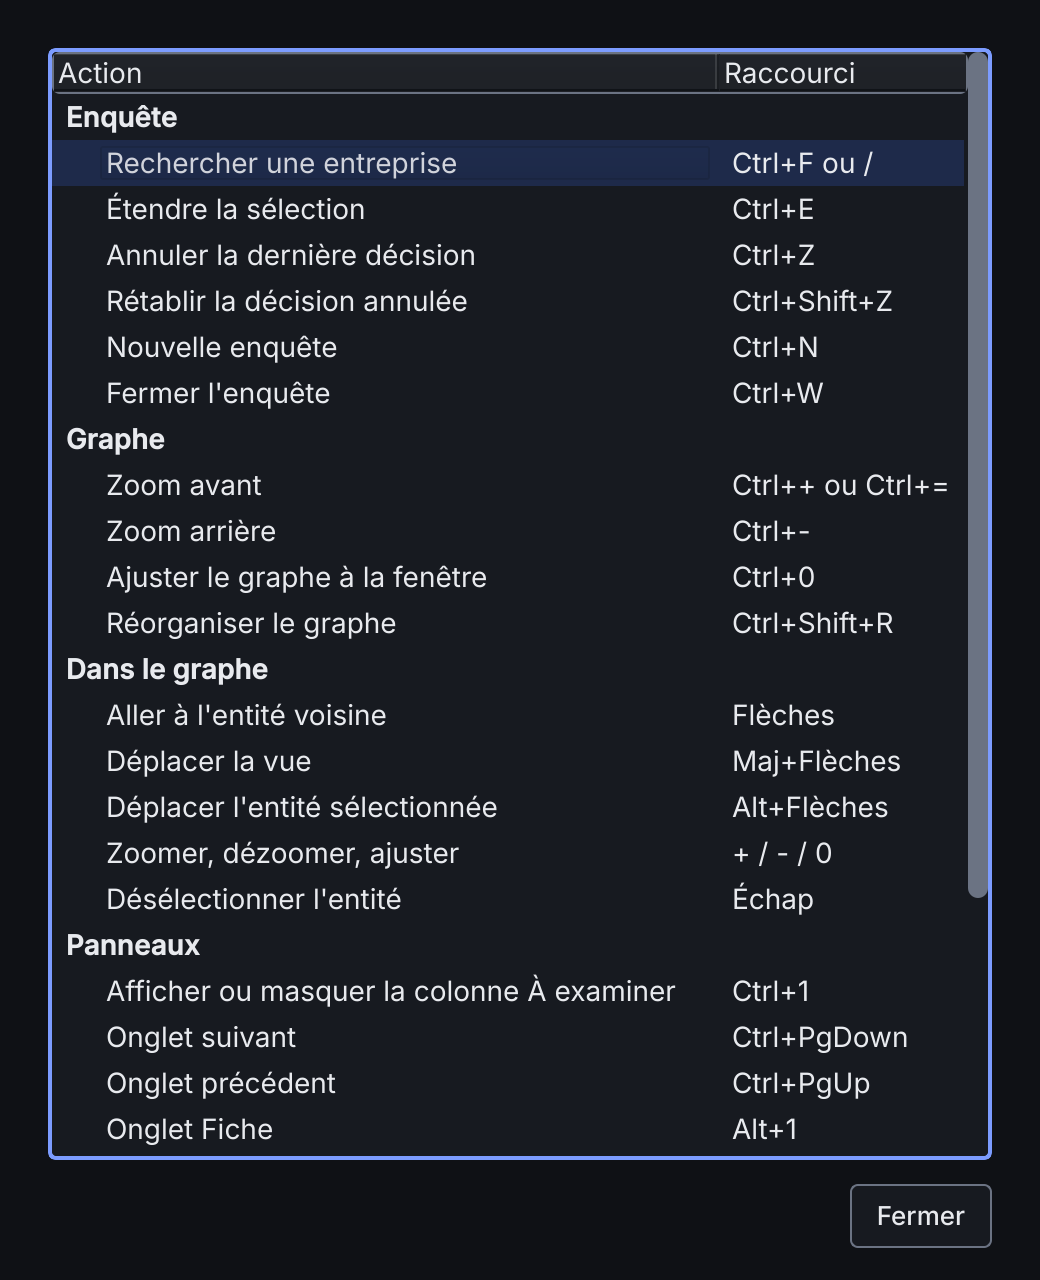
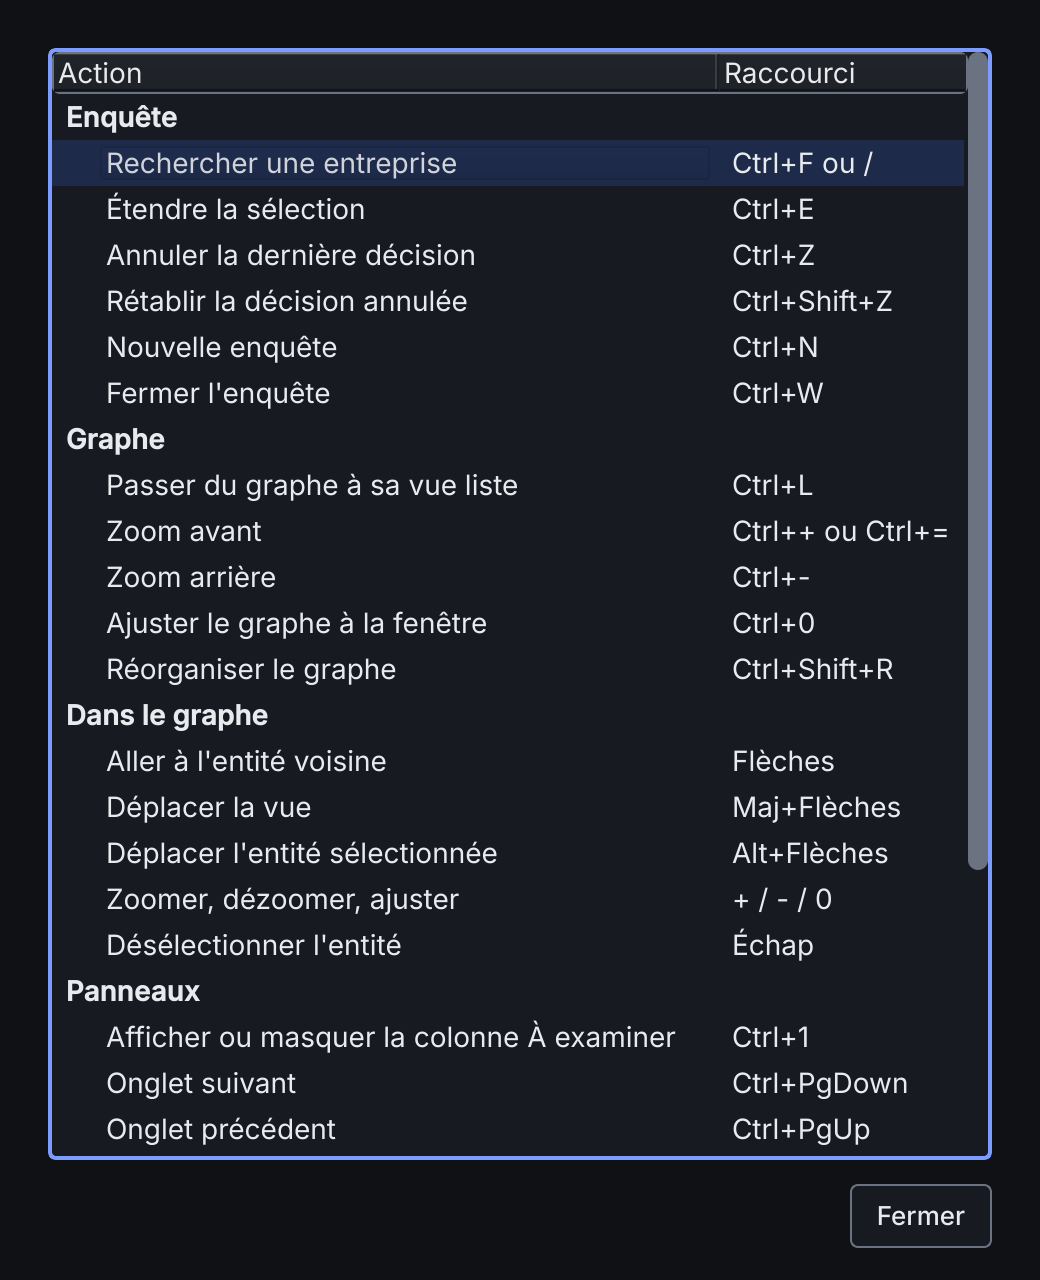
docs(77): Explain the list view of the graph

diff --git a/CHANGELOG.md b/CHANGELOG.md
@@ -6,6 +6,7 @@ All notable changes to Lacis are listed here, newest first. The format follows [
 
 ### Added
 
+- The graph has a list view, for screen readers and the keyboard. The « Vue liste » button above the graph, or Ctrl+L, shows its entities grouped by kind, each with its links, and screen readers hear each entity with its kind and its number of links. Moving through the list selects the entity in the graph and opens its details, Enter on a link goes to the entity it leads to, and the list follows the filters of the graph.
 - After an expansion or a decision, screen readers hear what is new to examine, such as « À examiner : 2 nouveaux signaux d'alerte et 1 nouvel homonyme à vérifier ». The announcement is polite, and the changes found within a second are grouped into one.
 - Screen readers learn the role, state and value of the widgets that Lacis draws itself: entity chips are links to their entity and tell its kind, signal cards are groups with their explanation and score, the BODACC timeline is a list of notices, and the buttons that fold the « À examiner » column or the provenance of a link tell whether it is open.
 
